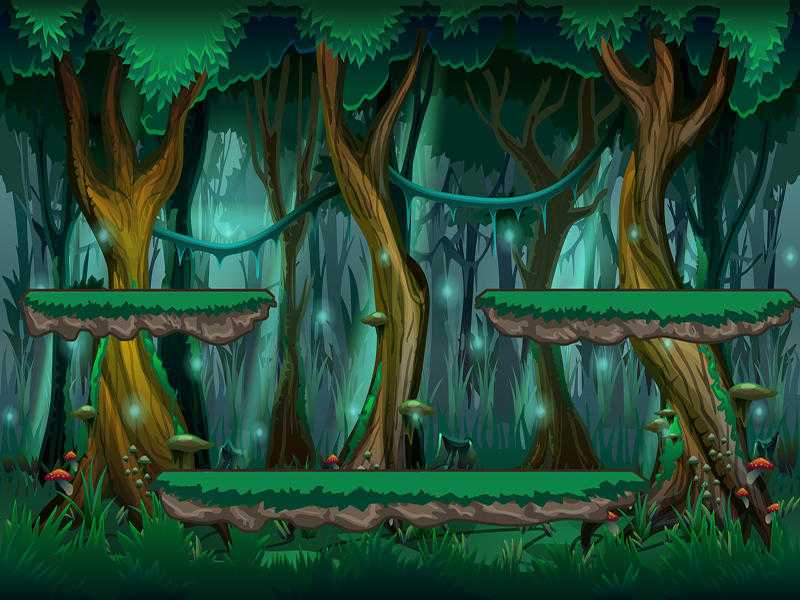
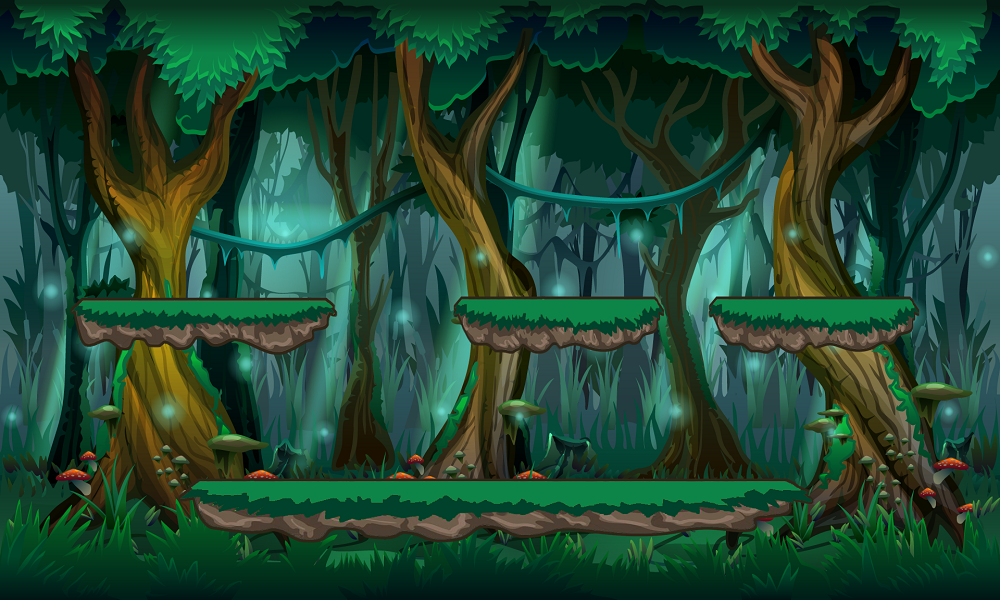
Implementado el combate y la barra de vida

Changed region(s): [[0.1562, 0.78, 0.8125, 0.9], [0.4375, 0.48, 1.0, 0.6], [0.0, 0.48, 0.3438, 0.6]]

diff --git a/js/singleton.js b/js/singleton.js
@@ -1,0 +1,153 @@
+function Juego(){
+///////////// MAPA /////////////////////////
+	this.mapaActual = 3;
+	this.plataformas
+	//Función preloadMapas
+	//	-Recive: escena donde se añaden los sprites y los offsets de las plataformas
+	//Añade el fondo de pantalla y las hitboxes de las plataformas según el mapa elegido
+	this.preloadMapas = function(escena){
+		escena.load.image("fondo","assets/images/backgrounds/mapas/escenario" + this.mapaActual + ".png").depth = 10;
+		escena.load.image("placeHolder","assets/images/backgrounds/mapas/placeHolderPlataformas.png")
+		this.plataformas = escena.physics.add.staticGroup();
+		let actual
+		switch(this.mapaActual){
+			case 1:
+				actual = this.plataformas.create(210, 500, 'placeHolder');
+				actual.setSize(600,1,false).setOffset(0,0);
+				actual = this.plataformas.create(580, 320, 'placeHolder');
+				actual.setSize(325,1).setOffset(0,0);
+				actual = this.plataformas.create(115, 320, 'placeHolder');
+				actual.setSize(247,1).setOffset(0,0);
+				break;
+			case 2:
+				actual = this.plataformas.create(210, 500, 'placeHolder');
+				actual.setSize(600,1,false).setOffset(0,0);
+				actual = this.plataformas.create(100, 320, 'placeHolder');
+				actual.setSize(245,1).setOffset(0,0);
+				actual = this.plataformas.create(475, 320, 'placeHolder');
+				actual.setSize(190,1).setOffset(0,0);
+				actual = this.plataformas.create(732, 320, 'placeHolder');
+				actual.setSize(190,1).setOffset(0,0);
+				
+				break;
+			case 3:
+				actual = this.plataformas.create(210, 500, 'placeHolder');
+				actual.setSize(600,1,false).setOffset(0,0);
+				actual = this.plataformas.create(100, 320, 'placeHolder');
+				actual.setSize(325,1).setOffset(0,0);
+				actual = this.plataformas.create(650, 320, 'placeHolder');
+				actual.setSize(250,1).setOffset(0,0);
+				break
+			
+		}
+	}
+//////////////////////////////////////////////////////////////////////////////////////////////////////////////
+
+///////////////////////////////// UI ////////////////////////////////////////////////////////////////////////
+	this.preloadUI = function(escena){
+		escena.load.image("marcoJ1","assets/images/userInterface/marcoJugador1.png")
+		escena.load.image("marcoJ2","assets/images/userInterface/marcoJugador2.png")
+		escena.load.image("barraMarco","assets/images/userInterface/barraHP.png")
+		escena.load.image("indicadorHPJugador1","assets/images/userInterface/hpJugador1.png")
+		escena.load.image("indicadorHPJugador2","assets/images/userInterface/hpJugador2.png")
+		escena.load.image("fondoBarra","assets/images/userInterface/fondoBarra.png");
+		escena.load.image("barraEnergia","assets/images/userInterface/barraEnergia.png")
+	}
+	
+	this.createUI = function(escena){
+		escena.add.image(5,5,"marcoJ1").setOrigin(0);
+		
+		let temporal = escena.add.image(86,25,"fondoBarra").setOrigin(0);
+		temporal.displayWidth = 238;
+		temporal.displayHeight = 20;
+		
+		temporal = escena.add.image(86,25,"barraMarco");
+		temporal.setOrigin(0);
+		temporal.depth = 7;
+		
+		jugador1.barraHP = escena.add.image(86,25,"indicadorHPJugador1")
+		jugador1.barraHP.setOrigin(0);
+		jugador1.barraHP.displayWidth = 215;
+		jugador1.barraHP.displayHeight = 20;
+		
+		
+		temporal = escena.add.image(86,45,"barraMarco");
+		temporal.setOrigin(0);
+		temporal.depth = 7;
+		temporal.displayWidth = 178;
+		temporal.displayHeight = 15;
+		
+		temporal = escena.add.image(86,45,"fondoBarra");
+		temporal.setOrigin(0);
+		temporal.displayWidth = 178;
+		temporal.displayHeight = 15;
+		
+		escena.add.image(990,10,"marcoJ2").setOrigin(1,0);
+		
+		temporal = escena.add.image(917,25,"barraMarco");
+		temporal.flipX = true;
+		temporal.setOrigin(1,0);
+		temporal.depth = 7;
+		
+		temporal = escena.add.image(917,45,"barraMarco");
+		temporal.setOrigin(1,0);
+		temporal.flipX = true
+		temporal.depth = 7;
+		temporal.displayWidth = 178;
+		temporal.displayHeight = 15;
+		
+		temporal = escena.add.image(917,25,"fondoBarra")
+		temporal.setOrigin(1,0);
+		temporal.displayWidth = 238;
+		temporal.displayHeight = 20;
+		
+		temporal = escena.add.image(917,45,"fondoBarra")
+		temporal.setOrigin(1,0);
+		temporal.displayWidth = 178;
+		temporal.displayHeight = 15;
+		
+		jugador2.barraHP = escena.add.image(917,25,"indicadorHPJugador2");
+		jugador2.barraHP.setOrigin(1,0)
+		jugador2.barraHP.displayWidth = 238;
+		jugador2.barraHP.displayHeight = 20;
+		
+		
+		
+		
+	}
+
+///////////// PERSONAJE /////////////////////////////////////////////////////////////////////////////////////
+	this.personajeJugador1 = "caballero";
+	this.personajeJugador2 = "caballero";
+	
+	this.checkInputPersonaje1 = function(escena){
+		escena.input.keyboard.on('keyup-' + 'A', function (event){jugador1.controladorTecladoUp("movIzquierda")});
+		escena.input.keyboard.on('keyup-' + 'D', function (event){jugador1.controladorTecladoUp("movDerecha")});
+		escena.input.keyboard.on('keyup-' + 'S', function (event){jugador1.controladorTecladoUp("abajo")})
+		
+		
+		
+		escena.input.keyboard.on('keydown-' + 'A', function (event) {jugador1.controladorTecladoDown("movIzquierda")});	
+		escena.input.keyboard.on('keydown-' + 'D', function (event){jugador1.controladorTecladoDown("movDerecha")});
+		escena.input.keyboard.on('keydown-' + 'W',function (event){jugador1.controladorTecladoDown("salto")});
+		escena.input.keyboard.on('keydown-' + 'S', function (event){jugador1.controladorTecladoDown("abajo")})
+		escena.input.keyboard.on('keydown-' + 'Q', function(event){jugador1.controladorTecladoDown("ataque")})
+	}
+	
+	this.checkInputPersonaje2 = function(escena){
+		escena.input.keyboard.on('keyup-' + 'J', function (event){jugador2.controladorTecladoUp("movIzquierda")});
+		escena.input.keyboard.on('keyup-' + 'L', function (event){jugador2.controladorTecladoUp("movDerecha")});
+		escena.input.keyboard.on('keyup-' + 'K', function (event){jugador2.controladorTecladoUp("abajo")})
+		
+		
+		
+		escena.input.keyboard.on('keydown-' + 'J', function (event) {jugador2.controladorTecladoDown("movIzquierda")});	
+		escena.input.keyboard.on('keydown-' + 'L', function (event){jugador2.controladorTecladoDown("movDerecha")});
+		escena.input.keyboard.on('keydown-' + 'I',function (event){jugador2.controladorTecladoDown("salto")});
+		escena.input.keyboard.on('keydown-' + 'K', function (event){jugador2.controladorTecladoDown("abajo")})
+		escena.input.keyboard.on('keydown-' + 'U', function(event){jugador2.controladorTecladoDown("ataque")})
+	}
+///////////////////////////////////////////////////////////////////////////////////////////////////////////////////
+
+
+}

diff --git a/js/objPersonaje.js b/js/objPersonaje.js
@@ -1,7 +1,7 @@
-function Jugador(){
+function Jugador(dir){
 	
 ////////// Stats Generales /////////////////	
-	this.hp = 100;					// Puntos de Vida del jugador
+	this.hpMax = 100;
 	this.vidas = 3;					// Vidas para terminar partida
 	this.velocidad = 100;			// Velocidad a la que se desplaza el jugador
 	this.cosVelocidadCorrer = 2;	//	Cosiente por el que se multiplica la velocidad al correr
@@ -14,7 +14,8 @@ function Jugador(){
 	
 
 ////////// Estado Jugador ///////////////////	
-	this.direccion = 1;			// Dirección del jugador que controla el "flipX"
+	this.hp = this.hpMax;					// Puntos de Vida del jugador
+	this.direccion = dir;				// Dirección del jugador que controla el "flipX"
 	this.finAccion = 0;				// Contador que controla los frames de la accion del jugador
 	this.animacionActual = "j1_Iddle";	// Variable que controla la animación del sprite según la acción
 	this.stateCombo = 0;			// Contador que controla la cadena de combo
@@ -25,15 +26,13 @@ function Jugador(){
 	}
 	this.invulnerabilidad = false;	// Controlador que comrpueba si el jugador es invulnerable
 	
-	
-/////////// A Rellenar Previamente 	//////////////////////////	
-	this.habilidad = null;			// Variable que almacena la habilidad del jugador
-	this.skin = null;					// Variable que almacena el peronaje elegido por el jugador
+	this.barraHP;
+	this.barraEnergia;
 
 ////////////////// HitBoxes ///////////////////////////////////////////////////
 		this.sprite;					// Variable que almacena el objeto sprite de Phaser	
-		this.arma;
-		this.personaje
+		this.colisionArma;
+		
 //////////// Funciones de Jugador ////////////////////////////////////////
 	
 	//A RELLENAR EN PANTALLA JUGADOR
@@ -102,6 +101,7 @@ function Jugador(){
 			this.finAccion = this.frameAction.ataque;
 			this.accion.ataque = true;
 			this.animacionActual = "j1_Ataque";
+			this.colisionArma.active = true;
 		
 		}
 	}
@@ -191,17 +191,30 @@ function Jugador(){
 	//Función que crea las físicas del personaje, ademas de las colisiones con su entorno
 	this.setSprite = function(escena){
 		this.personaje = escena.physics.add.group();
-		this.sprite = escena.physics.add.sprite(200, 300, 'j1_Salto');
+		//this.sprite = escena.physics.add.sprite(200, 300, 'j1_Salto');
+		
+		console.log(this.direccion)
+		if(this.direccion === -1){
+			this.sprite = escena.physics.add.sprite(750, 100, 'j1_Salto');
+			this.sprite.flipX = true;
+			this.sprite.setOffset(99,0);
+		}else{
+			this.sprite = escena.physics.add.sprite(200, 100, 'j1_Salto');
+			this.sprite.flipX = false;
+			this.sprite.setOffset()
+			this.sprite.setOffset(20,0);
+		}
 		this.sprite.setSize(60,125,false).setOffset(20,0);
 		this.sprite.depth = 1;
 		this.sprite.body.checkCollision.up = false;
 		this.sprite.setCollideWorldBounds(true);
-	
+		
 
 		
 		this.hitbox = escena.physics.add.sprite(245,400, 'placeHolder')
 		this.hitbox.setSize(20,20,false).setOffset(0,0);
 		this.hitbox.depth = 2;
+		this.hitbox.body.checkCollision.up = false;
 		
 			
 		
@@ -210,6 +223,8 @@ function Jugador(){
 		
 		
 	}
+	
+	
 	
 	//Function playAnimation
 	//Funciçon que ejecuta la animación actual del personaje
@@ -221,8 +236,7 @@ function Jugador(){
 					this.accion.ataque = false;
 					this.animacionActual = "j1_Iddle";
 					this.sprite.anims.play(this.animacionActual,true)
-					//this.sprite.body.checkCollision.down = true;
-					//this.sprite.setVelocityY(0);
+					this.colisionArma.active = false
 					
 					
 					
@@ -233,7 +247,9 @@ function Jugador(){
 			
 			
 				this.hitbox.x = this.sprite.x + 49*this.direccion;
-				this.hitbox.y = this.sprite.y -9
+				this.hitbox.y = this.sprite.y -9;
+				
+				this.barraHP.displayWidth = 238*this.hp/this.hpMax;
 	}
 	
 
@@ -250,9 +266,12 @@ function Jugador(){
 		}
 	}
 	
-	this.colisionAtaque = function(jugador,enemigo){
-		 if(this.accion.ataque)
-		 console.log("Golpeado")
+	this.colisionAtaque = function(enemigo){
+		 if(this.accion.ataque){
+			this.accion.ataque = false
+			enemigo.hp -= 10;
+			console.log("HP Jugador: " + enemigo.hp)
+		 }
 	}
 	
 //---------------------------------------------------------------------------//

diff --git a/js/combate.js b/js/combate.js
@@ -1,6 +1,8 @@
-var jugador1 = new Jugador();
-var jugador2 = new Jugador()
-var plataformas;
+var jugador1 = new Jugador(1);
+var jugador2 = new Jugador(-1);
+var juego = new Juego();
+
+
 class combate extends Phaser.Scene {
     constructor() {
       super("combate"); 
@@ -11,19 +13,12 @@ class combate extends Phaser.Scene {
 		jugador1.loadSprites(this);
 		jugador2.loadSprites(this);
 		
-		//Cargamos el fondo seleccionado y lo llevamos al fondo
-		let fondo = this.load.image("fondo","assets/images/backgrounds/mapas/escenario1.png")
-		fondo.depth = 10;
+		//Cargamos el fondo seleccionado con sus plataformas correspondientes y lo llevamos al fondo
+		juego.preloadMapas(this);
 		
-		//Cargamos las plataformas
-		let placeHolderPlataformas = this.load.image("placeHolder","assets/images/backgrounds/mapas/placeHolderPlataformas.png")
-		plataformas = this.physics.add.staticGroup();
-		let actual = plataformas.create(180, 490, 'placeHolder');
-		actual.setSize(482,1,false).setOffset(0,0);
-		actual = plataformas.create(48, 310, 'placeHolder');
-		actual.setSize(235,1).setOffset(0,0);
-		actual = plataformas.create(500, 310, 'placeHolder');
-		actual.setSize(305,1).setOffset(0,0);
+		//Cargamos la interfaz de usuraio
+		juego.preloadUI(this);
+		
 		
 		
 		
@@ -32,7 +27,7 @@ class combate extends Phaser.Scene {
 	}
 	
 	create(){		
-		this.physics.world.setBounds(0,0,800,600,true,true,false,true);
+		this.physics.world.setBounds(0,0,1000,600,true,true,false,true);
 		//Cargamos animaciones sprites jugador 1
 		jugador1.createAnimations(this);
 		jugador2.createAnimations(this);
@@ -42,29 +37,29 @@ class combate extends Phaser.Scene {
 		jugador2.setSprite(this);
 		
 		//Cargamos el fondo
-		this.add.image(400,300,"fondo");
+		this.add.image(500,300,"fondo");
+		
+		//Cargamos la UI
+		juego.createUI(this);
 		
 		
 		//Añadimos el collider con las plataformas
-		this.physics.add.collider(jugador1.sprite,plataformas,function(){jugador1.colisionPlataforma(jugador1.sprite,plataformas)});
-		this.physics.add.collider(jugador2.sprite,plataformas,function(){jugador2.colisionPlataforma(jugador2.sprite,plataformas)})
-		this.physics.add.collider(jugador1.hitbox,jugador2.sprite,function(){jugador1.colisionAtaque(jugador1.hitbox,jugador2.sprite)})
+		this.physics.add.collider(jugador1.sprite,juego.plataformas,function(){jugador1.colisionPlataforma(jugador1.sprite,juego.plataformas)});
+		this.physics.add.collider(jugador2.sprite,juego.plataformas,function(){jugador2.colisionPlataforma(jugador2.sprite,juego.plataformas)})
+		
+
+		
+		jugador1.colisionArma = this.physics.add.collider(jugador1.hitbox,jugador2.sprite,function(){jugador1.colisionAtaque(jugador2)})
+		jugador1.colisionArma.active  = false;
+		jugador2.colisionArma  = this.physics.add.collider(jugador2.hitbox,jugador1.sprite,function(){jugador2.colisionAtaque(jugador1)})
+		jugador2.colisionArma.active  = false;
 	}
 	
 	update(){
 		
 		// Recogemos información de teclado
-		this.input.keyboard.on('keyup-' + 'A', function (event){jugador1.controladorTecladoUp("movIzquierda")});
-		this.input.keyboard.on('keyup-' + 'D', function (event){jugador1.controladorTecladoUp("movDerecha")});
-		this.input.keyboard.on('keyup-' + 'S', function (event){jugador1.controladorTecladoUp("abajo")})
-		
-		
-		
-		this.input.keyboard.on('keydown-' + 'A', function (event) {jugador1.controladorTecladoDown("movIzquierda")});	
-		this.input.keyboard.on('keydown-' + 'D', function (event){jugador1.controladorTecladoDown("movDerecha")});
-		this.input.keyboard.on('keydown-' + 'W',function (event){jugador1.controladorTecladoDown("salto")});
-		this.input.keyboard.on('keydown-' + 'S', function (event){jugador1.controladorTecladoDown("abajo")})
-		this.input.keyboard.on('keydown-' + 'Q', function(event){jugador1.controladorTecladoDown("ataque")})
+		juego.checkInputPersonaje1(this);
+		juego.checkInputPersonaje2(this);
 		
 		//plataformas.setVelocityX(10);
 			

diff --git a/index.html b/index.html
@@ -6,6 +6,7 @@
     <script type="text/javascript" src="js/pantallaPressStart.js"></script>
     <script type="text/javascript" src="js/menuPrincipal.js"></script>
 	<script type="text/javascript" src="js/objPersonaje.js"></script>
+	<script type="text/javascript" src="js/singleton.js"></script>
     <script type="text/javascript" src="js/seleccionMapa.js"></script>
 	<script type="text/javascript" src="js/combate.js"></script>
 	<script type="text/javascript" src="js/juego.js"></script>

diff --git a/js/juego.js b/js/juego.js
@@ -2,7 +2,7 @@ var config = {
     type: Phaser.AUTO,
     parent: "canvas",
 	expandParent :true,
-	width: 800,
+	width: 1000,
 	height: 600,
     scene: [pantallaPressStart,menuPrincipal,seleccionMapa,combate],
 	scale: {
